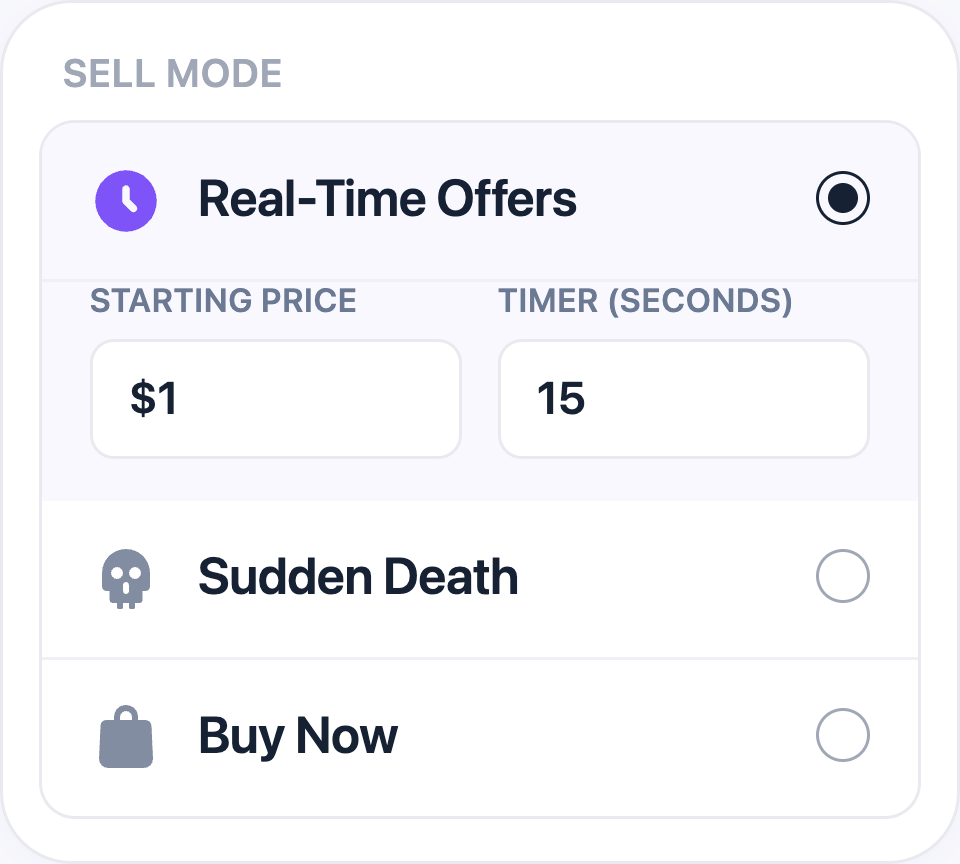
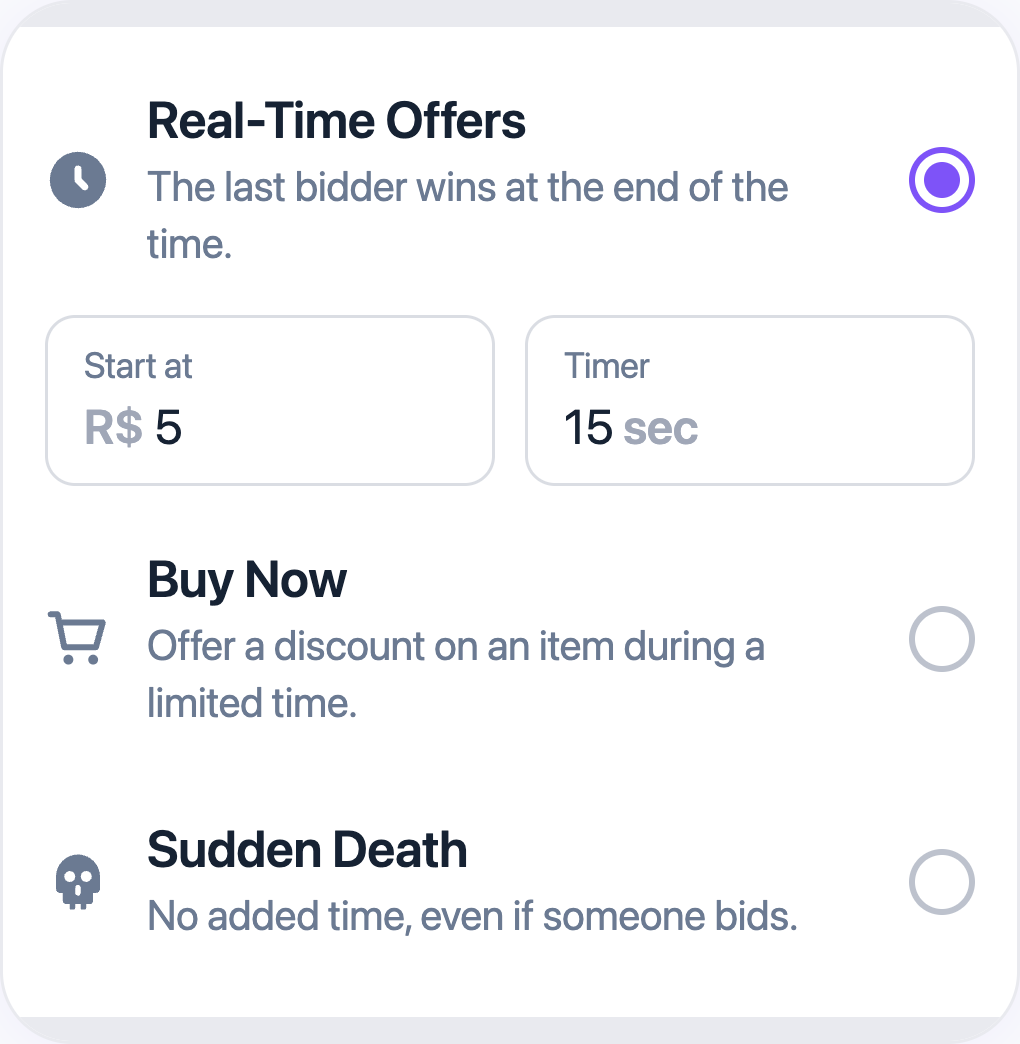
content: sell-mode picker matches the current listing form
Layout and copy from the real form (Ofertas em Tempo Real, Comprar Agora,
Morte Súbita with their app subtitles, 'Começar em' + 'Timer' fields, purple
radio). Starting price shown as R$5 (current minimum). Sorteio left out:
giveaway creation is disabled since Jul 1. EN uses the iOS English strings.

diff --git a/articles/how-real-time-offers-work/mockup-sources/sell-mode-picker__pt-br.html b/articles/how-real-time-offers-work/mockup-sources/sell-mode-picker__pt-br.html
@@ -1,49 +1,28 @@
 <!DOCTYPE html><html><head><meta name="viewport" content="width=device-width, initial-scale=1"><style>
 * { box-sizing: border-box; margin: 0; padding: 0; }
-body { font-family: -apple-system, "SF Pro Display", BlinkMacSystemFont, system-ui, sans-serif; background: #F9FAFC; display: flex; justify-content: center; padding: 12px; }
-.phone { width: 320px; background: #FFFFFF; border-radius: 24px; box-shadow: 0 2px 20px rgba(126,83,248,0.08); border: 1px solid #E9EAEF; overflow: hidden; }
-
-.picker-title { font-size: 13px; font-weight: 600; color: #A0A7B7; text-transform: uppercase; padding: 16px 20px 8px; letter-spacing: 0.5px; }
-.group { margin: 0 12px 14px; border: 1px solid #E9EAEF; border-radius: 12px; overflow: hidden; }
-.opt { display: flex; align-items: flex-start; padding: 14px 16px; border-bottom: 1px solid #F0F1F5; }
-.opt:last-child { border-bottom: none; }
-.opt.selected { background: #F9F8FF; }
-.opt-icon { width: 24px; height: 24px; margin-right: 12px; flex-shrink: 0; display: flex; align-items: center; justify-content: center; }
-.opt-icon svg { width: 100%; height: 100%; display: block; }
-.opt-icon.purple { color: #7E53F8; }
-.opt-icon.gray { color: #828DA2; }
-.opt-text { flex: 1; }
-.opt-name { font-size: 17px; font-weight: 600; color: #162233; line-height: 22px; }
-.opt-sub { font-size: 13px; color: #A0A7B7; line-height: 18px; margin-top: 2px; }
-.radio { width: 18px; height: 18px; border-radius: 50%; border: 1.5px solid #A0A7B7; flex-shrink: 0; margin-left: 12px; margin-top: 2px; }
-.radio.selected { border-color: #162233; position: relative; }
-.radio.selected::after { content: ""; position: absolute; top: 3px; left: 3px; width: 10px; height: 10px; border-radius: 50%; background: #162233; }
-
-.expanded { background: #F9F8FF; padding: 0 16px 14px; display: flex; gap: 12px; }
-.field { flex: 1; }
-.field-label { font-size: 11px; font-weight: 600; color: #6B7A92; text-transform: uppercase; letter-spacing: 0.4px; margin-bottom: 6px; }
-.field-input { background: #FFFFFF; border: 1px solid #E9EAEF; border-radius: 8px; padding: 10px 12px; font-size: 15px; font-weight: 600; color: #162233; }
+body { font-family: -apple-system, "SF Pro Display", BlinkMacSystemFont, system-ui, sans-serif; background: #F9FAFC; display: flex; justify-content: center; padding: 12px; color: #162233; }
+.phone { width: 340px; background: #FFFFFF; border-radius: 24px; box-shadow: 0 2px 20px rgba(126,83,248,0.08); border: 1px solid #E9EAEF; overflow: hidden; }
+.sep { height: 8px; background: #E9EAEF; }
+.list { padding: 6px 14px 10px; }
+.opt { display: flex; align-items: center; gap: 12px; padding: 14px 0; }
+.ic { width: 22px; height: 22px; color: #6B7A92; flex-shrink: 0; }
+.ic svg { width: 100%; height: 100%; display: block; }
+.tx { flex: 1; }
+.nm { font-size: 17px; font-weight: 600; line-height: 22px; }
+.sb { font-size: 14px; color: #6B7A92; line-height: 19px; margin-top: 2px; }
+.rd { width: 22px; height: 22px; border-radius: 50%; border: 2px solid #BDC2CD; flex-shrink: 0; }
+.rd.on { border-color: #7E53F8; position: relative; }
+.rd.on::after { content: ""; position: absolute; inset: 3px; border-radius: 50%; background: #7E53F8; }
+.fields { display: flex; gap: 10px; padding: 0 0 6px; }
+.f { flex: 1; border: 1px solid #DADDE3; border-radius: 10px; padding: 9px 12px; }
+.fl { font-size: 12px; color: #6B7A92; }
+.fv { font-size: 16px; margin-top: 4px; }
+.fv .u { color: #A0A7B7; font-weight: 600; }
 </style></head><body><div class="phone">
-<div class="picker-title">Modo de venda</div>
-<div class="group">
-  <div class="opt selected">
-    <div class="opt-icon purple"><svg width="18" height="18" viewBox="0 0 18 18" fill="none" xmlns="http://www.w3.org/2000/svg"><path fill-rule="evenodd" clip-rule="evenodd" d="M3.1875 9C3.1875 5.78984 5.78984 3.1875 9 3.1875C12.2102 3.1875 14.8125 5.78984 14.8125 9C14.8125 12.2102 12.2102 14.8125 9 14.8125C5.78984 14.8125 3.1875 12.2102 3.1875 9ZM9 5.0625C9.51777 5.0625 9.9375 5.48223 9.9375 6V8.61167L11.5379 10.2121C11.904 10.5782 11.904 11.1718 11.5379 11.5379C11.1718 11.904 10.5782 11.904 10.2121 11.5379L8.33709 9.66291C8.16127 9.4871 8.0625 9.24864 8.0625 9V6C8.0625 5.48223 8.48223 5.0625 9 5.0625Z" fill="currentColor"/><path fill-rule="evenodd" clip-rule="evenodd" d="M3.1875 9C3.1875 5.78984 5.78984 3.1875 9 3.1875C12.2102 3.1875 14.8125 5.78984 14.8125 9C14.8125 12.2102 12.2102 14.8125 9 14.8125C5.78984 14.8125 3.1875 12.2102 3.1875 9ZM9 1.3125C4.75431 1.3125 1.3125 4.75431 1.3125 9C1.3125 13.2457 4.75431 16.6875 9 16.6875C13.2457 16.6875 16.6875 13.2457 16.6875 9C16.6875 4.75431 13.2457 1.3125 9 1.3125Z" fill="currentColor"/></svg></div>
-    <div class="opt-text"><div class="opt-name">Ofertas em Tempo Real</div></div>
-    <div class="radio selected"></div>
-  </div>
-  <div class="expanded">
-    <div class="field"><div class="field-label">Preço inicial</div><div class="field-input">R$ 5</div></div>
-    <div class="field"><div class="field-label">Duração (segundos)</div><div class="field-input">15</div></div>
-  </div>
-  <div class="opt">
-    <div class="opt-icon gray"><svg viewBox="0 0 24 24" fill="none" xmlns="http://www.w3.org/2000/svg"><path fill-rule="evenodd" clip-rule="evenodd" d="M12 2C7.58 2 4 5.58 4 10V14.5C4 15.33 4.67 16 5.5 16H6.5V19C6.5 19.55 6.95 20 7.5 20H9V21.5C9 21.78 9.22 22 9.5 22H10.5C10.78 22 11 21.78 11 21.5V20H13V21.5C13 21.78 13.22 22 13.5 22H14.5C14.78 22 15 21.78 15 21.5V20H16.5C17.05 20 17.5 19.55 17.5 19V16H18.5C19.33 16 20 15.33 20 14.5V10C20 5.58 16.42 2 12 2ZM9 12C7.9 12 7 11.1 7 10C7 8.9 7.9 8 9 8C10.1 8 11 8.9 11 10C11 11.1 10.1 12 9 12ZM15 12C13.9 12 13 11.1 13 10C13 8.9 13.9 8 15 8C16.1 8 17 8.9 17 10C17 11.1 16.1 12 15 12ZM12 17C11.45 17 11 16.55 11 16V14C11 13.45 11.45 13 12 13C12.55 13 13 13.45 13 14V16C13 16.55 12.55 17 12 17Z" fill="currentColor"/></svg></div>
-    <div class="opt-text"><div class="opt-name">Morte Súbita</div></div>
-    <div class="radio"></div>
-  </div>
-  <div class="opt">
-    <div class="opt-icon gray"><svg viewBox="0 0 24 24" fill="none" xmlns="http://www.w3.org/2000/svg"><path fill-rule="evenodd" clip-rule="evenodd" d="M8 6V5C8 2.79 9.79 1 12 1C14.21 1 16 2.79 16 5V6H18.5C19.6 6 20.5 6.9 20.5 8L21 19C21 20.66 19.66 22 18 22H6C4.34 22 3 20.66 3 19L3.5 8C3.5 6.9 4.4 6 5.5 6H8ZM10 6H14V5C14 3.9 13.1 3 12 3C10.9 3 10 3.9 10 5V6Z" fill="currentColor"/></svg></div>
-    <div class="opt-text"><div class="opt-name">Comprar Agora</div></div>
-    <div class="radio"></div>
-  </div>
-</div>
+<div class="sep"></div><div class="list">
+<div class="opt"><div class="ic"><svg width="18" height="18" viewBox="0 0 18 18" fill="none" xmlns="http://www.w3.org/2000/svg"><path fill-rule="evenodd" clip-rule="evenodd" d="M3.1875 9C3.1875 5.78984 5.78984 3.1875 9 3.1875C12.2102 3.1875 14.8125 5.78984 14.8125 9C14.8125 12.2102 12.2102 14.8125 9 14.8125C5.78984 14.8125 3.1875 12.2102 3.1875 9ZM9 5.0625C9.51777 5.0625 9.9375 5.48223 9.9375 6V8.61167L11.5379 10.2121C11.904 10.5782 11.904 11.1718 11.5379 11.5379C11.1718 11.904 10.5782 11.904 10.2121 11.5379L8.33709 9.66291C8.16127 9.4871 8.0625 9.24864 8.0625 9V6C8.0625 5.48223 8.48223 5.0625 9 5.0625Z" fill="currentColor"/><path fill-rule="evenodd" clip-rule="evenodd" d="M3.1875 9C3.1875 5.78984 5.78984 3.1875 9 3.1875C12.2102 3.1875 14.8125 5.78984 14.8125 9C14.8125 12.2102 12.2102 14.8125 9 14.8125C5.78984 14.8125 3.1875 12.2102 3.1875 9ZM9 1.3125C4.75431 1.3125 1.3125 4.75431 1.3125 9C1.3125 13.2457 4.75431 16.6875 9 16.6875C13.2457 16.6875 16.6875 13.2457 16.6875 9C16.6875 4.75431 13.2457 1.3125 9 1.3125Z" fill="currentColor"/></svg></div><div class="tx"><div class="nm">Ofertas em Tempo Real</div><div class="sb">A última oferta vence ao final do tempo.</div></div><div class="rd on"></div></div>
+<div class="fields"><div class="f"><div class="fl">Começar em</div><div class="fv"><span class="u">R$</span> 5</div></div><div class="f"><div class="fl">Timer</div><div class="fv">15 <span class="u">seg</span></div></div></div>
+<div class="opt"><div class="ic"><svg viewBox="0 0 24 24" fill="none"><path d="M2 3H4.6L7 15H18.5L21 6H5.6" stroke="currentColor" stroke-width="2.2" stroke-linecap="round" stroke-linejoin="round"/><circle cx="8.5" cy="19.5" r="1.8" fill="currentColor"/><circle cx="17.5" cy="19.5" r="1.8" fill="currentColor"/></svg></div><div class="tx"><div class="nm">Comprar Agora</div><div class="sb">Ofereça um desconto em um item por um tempo limitado.</div></div><div class="rd"></div></div>
+<div class="opt"><div class="ic"><svg viewBox="0 0 24 24" fill="none" xmlns="http://www.w3.org/2000/svg"><path fill-rule="evenodd" clip-rule="evenodd" d="M12 2C7.58 2 4 5.58 4 10V14.5C4 15.33 4.67 16 5.5 16H6.5V19C6.5 19.55 6.95 20 7.5 20H9V21.5C9 21.78 9.22 22 9.5 22H10.5C10.78 22 11 21.78 11 21.5V20H13V21.5C13 21.78 13.22 22 13.5 22H14.5C14.78 22 15 21.78 15 21.5V20H16.5C17.05 20 17.5 19.55 17.5 19V16H18.5C19.33 16 20 15.33 20 14.5V10C20 5.58 16.42 2 12 2ZM9 12C7.9 12 7 11.1 7 10C7 8.9 7.9 8 9 8C10.1 8 11 8.9 11 10C11 11.1 10.1 12 9 12ZM15 12C13.9 12 13 11.1 13 10C13 8.9 13.9 8 15 8C16.1 8 17 8.9 17 10C17 11.1 16.1 12 15 12ZM12 17C11.45 17 11 16.55 11 16V14C11 13.45 11.45 13 12 13C12.55 13 13 13.45 13 14V16C13 16.55 12.55 17 12 17Z" fill="currentColor"/></svg></div><div class="tx"><div class="nm">Morte Súbita</div><div class="sb">Sem tempo adicional, mesmo se alguém fizer uma oferta.</div></div><div class="rd"></div></div>
+</div><div class="sep"></div>
 </div></body></html>

diff --git a/articles/how-real-time-offers-work/mockup-sources/sell-mode-picker__en.html b/articles/how-real-time-offers-work/mockup-sources/sell-mode-picker__en.html
@@ -1,49 +1,28 @@
 <!DOCTYPE html><html><head><meta name="viewport" content="width=device-width, initial-scale=1"><style>
 * { box-sizing: border-box; margin: 0; padding: 0; }
-body { font-family: -apple-system, "SF Pro Display", BlinkMacSystemFont, system-ui, sans-serif; background: #F9FAFC; display: flex; justify-content: center; padding: 12px; }
-.phone { width: 320px; background: #FFFFFF; border-radius: 24px; box-shadow: 0 2px 20px rgba(126,83,248,0.08); border: 1px solid #E9EAEF; overflow: hidden; }
-
-.picker-title { font-size: 13px; font-weight: 600; color: #A0A7B7; text-transform: uppercase; padding: 16px 20px 8px; letter-spacing: 0.5px; }
-.group { margin: 0 12px 14px; border: 1px solid #E9EAEF; border-radius: 12px; overflow: hidden; }
-.opt { display: flex; align-items: flex-start; padding: 14px 16px; border-bottom: 1px solid #F0F1F5; }
-.opt:last-child { border-bottom: none; }
-.opt.selected { background: #F9F8FF; }
-.opt-icon { width: 24px; height: 24px; margin-right: 12px; flex-shrink: 0; display: flex; align-items: center; justify-content: center; }
-.opt-icon svg { width: 100%; height: 100%; display: block; }
-.opt-icon.purple { color: #7E53F8; }
-.opt-icon.gray { color: #828DA2; }
-.opt-text { flex: 1; }
-.opt-name { font-size: 17px; font-weight: 600; color: #162233; line-height: 22px; }
-.opt-sub { font-size: 13px; color: #A0A7B7; line-height: 18px; margin-top: 2px; }
-.radio { width: 18px; height: 18px; border-radius: 50%; border: 1.5px solid #A0A7B7; flex-shrink: 0; margin-left: 12px; margin-top: 2px; }
-.radio.selected { border-color: #162233; position: relative; }
-.radio.selected::after { content: ""; position: absolute; top: 3px; left: 3px; width: 10px; height: 10px; border-radius: 50%; background: #162233; }
-
-.expanded { background: #F9F8FF; padding: 0 16px 14px; display: flex; gap: 12px; }
-.field { flex: 1; }
-.field-label { font-size: 11px; font-weight: 600; color: #6B7A92; text-transform: uppercase; letter-spacing: 0.4px; margin-bottom: 6px; }
-.field-input { background: #FFFFFF; border: 1px solid #E9EAEF; border-radius: 8px; padding: 10px 12px; font-size: 15px; font-weight: 600; color: #162233; }
+body { font-family: -apple-system, "SF Pro Display", BlinkMacSystemFont, system-ui, sans-serif; background: #F9FAFC; display: flex; justify-content: center; padding: 12px; color: #162233; }
+.phone { width: 340px; background: #FFFFFF; border-radius: 24px; box-shadow: 0 2px 20px rgba(126,83,248,0.08); border: 1px solid #E9EAEF; overflow: hidden; }
+.sep { height: 8px; background: #E9EAEF; }
+.list { padding: 6px 14px 10px; }
+.opt { display: flex; align-items: center; gap: 12px; padding: 14px 0; }
+.ic { width: 22px; height: 22px; color: #6B7A92; flex-shrink: 0; }
+.ic svg { width: 100%; height: 100%; display: block; }
+.tx { flex: 1; }
+.nm { font-size: 17px; font-weight: 600; line-height: 22px; }
+.sb { font-size: 14px; color: #6B7A92; line-height: 19px; margin-top: 2px; }
+.rd { width: 22px; height: 22px; border-radius: 50%; border: 2px solid #BDC2CD; flex-shrink: 0; }
+.rd.on { border-color: #7E53F8; position: relative; }
+.rd.on::after { content: ""; position: absolute; inset: 3px; border-radius: 50%; background: #7E53F8; }
+.fields { display: flex; gap: 10px; padding: 0 0 6px; }
+.f { flex: 1; border: 1px solid #DADDE3; border-radius: 10px; padding: 9px 12px; }
+.fl { font-size: 12px; color: #6B7A92; }
+.fv { font-size: 16px; margin-top: 4px; }
+.fv .u { color: #A0A7B7; font-weight: 600; }
 </style></head><body><div class="phone">
-<div class="picker-title">Sell mode</div>
-<div class="group">
-  <div class="opt selected">
-    <div class="opt-icon purple"><svg width="18" height="18" viewBox="0 0 18 18" fill="none" xmlns="http://www.w3.org/2000/svg"><path fill-rule="evenodd" clip-rule="evenodd" d="M3.1875 9C3.1875 5.78984 5.78984 3.1875 9 3.1875C12.2102 3.1875 14.8125 5.78984 14.8125 9C14.8125 12.2102 12.2102 14.8125 9 14.8125C5.78984 14.8125 3.1875 12.2102 3.1875 9ZM9 5.0625C9.51777 5.0625 9.9375 5.48223 9.9375 6V8.61167L11.5379 10.2121C11.904 10.5782 11.904 11.1718 11.5379 11.5379C11.1718 11.904 10.5782 11.904 10.2121 11.5379L8.33709 9.66291C8.16127 9.4871 8.0625 9.24864 8.0625 9V6C8.0625 5.48223 8.48223 5.0625 9 5.0625Z" fill="currentColor"/><path fill-rule="evenodd" clip-rule="evenodd" d="M3.1875 9C3.1875 5.78984 5.78984 3.1875 9 3.1875C12.2102 3.1875 14.8125 5.78984 14.8125 9C14.8125 12.2102 12.2102 14.8125 9 14.8125C5.78984 14.8125 3.1875 12.2102 3.1875 9ZM9 1.3125C4.75431 1.3125 1.3125 4.75431 1.3125 9C1.3125 13.2457 4.75431 16.6875 9 16.6875C13.2457 16.6875 16.6875 13.2457 16.6875 9C16.6875 4.75431 13.2457 1.3125 9 1.3125Z" fill="currentColor"/></svg></div>
-    <div class="opt-text"><div class="opt-name">Real-Time Offers</div></div>
-    <div class="radio selected"></div>
-  </div>
-  <div class="expanded">
-    <div class="field"><div class="field-label">Starting price</div><div class="field-input">$1</div></div>
-    <div class="field"><div class="field-label">Timer (Seconds)</div><div class="field-input">15</div></div>
-  </div>
-  <div class="opt">
-    <div class="opt-icon gray"><svg viewBox="0 0 24 24" fill="none" xmlns="http://www.w3.org/2000/svg"><path fill-rule="evenodd" clip-rule="evenodd" d="M12 2C7.58 2 4 5.58 4 10V14.5C4 15.33 4.67 16 5.5 16H6.5V19C6.5 19.55 6.95 20 7.5 20H9V21.5C9 21.78 9.22 22 9.5 22H10.5C10.78 22 11 21.78 11 21.5V20H13V21.5C13 21.78 13.22 22 13.5 22H14.5C14.78 22 15 21.78 15 21.5V20H16.5C17.05 20 17.5 19.55 17.5 19V16H18.5C19.33 16 20 15.33 20 14.5V10C20 5.58 16.42 2 12 2ZM9 12C7.9 12 7 11.1 7 10C7 8.9 7.9 8 9 8C10.1 8 11 8.9 11 10C11 11.1 10.1 12 9 12ZM15 12C13.9 12 13 11.1 13 10C13 8.9 13.9 8 15 8C16.1 8 17 8.9 17 10C17 11.1 16.1 12 15 12ZM12 17C11.45 17 11 16.55 11 16V14C11 13.45 11.45 13 12 13C12.55 13 13 13.45 13 14V16C13 16.55 12.55 17 12 17Z" fill="currentColor"/></svg></div>
-    <div class="opt-text"><div class="opt-name">Sudden Death</div></div>
-    <div class="radio"></div>
-  </div>
-  <div class="opt">
-    <div class="opt-icon gray"><svg viewBox="0 0 24 24" fill="none" xmlns="http://www.w3.org/2000/svg"><path fill-rule="evenodd" clip-rule="evenodd" d="M8 6V5C8 2.79 9.79 1 12 1C14.21 1 16 2.79 16 5V6H18.5C19.6 6 20.5 6.9 20.5 8L21 19C21 20.66 19.66 22 18 22H6C4.34 22 3 20.66 3 19L3.5 8C3.5 6.9 4.4 6 5.5 6H8ZM10 6H14V5C14 3.9 13.1 3 12 3C10.9 3 10 3.9 10 5V6Z" fill="currentColor"/></svg></div>
-    <div class="opt-text"><div class="opt-name">Buy Now</div></div>
-    <div class="radio"></div>
-  </div>
-</div>
+<div class="sep"></div><div class="list">
+<div class="opt"><div class="ic"><svg width="18" height="18" viewBox="0 0 18 18" fill="none" xmlns="http://www.w3.org/2000/svg"><path fill-rule="evenodd" clip-rule="evenodd" d="M3.1875 9C3.1875 5.78984 5.78984 3.1875 9 3.1875C12.2102 3.1875 14.8125 5.78984 14.8125 9C14.8125 12.2102 12.2102 14.8125 9 14.8125C5.78984 14.8125 3.1875 12.2102 3.1875 9ZM9 5.0625C9.51777 5.0625 9.9375 5.48223 9.9375 6V8.61167L11.5379 10.2121C11.904 10.5782 11.904 11.1718 11.5379 11.5379C11.1718 11.904 10.5782 11.904 10.2121 11.5379L8.33709 9.66291C8.16127 9.4871 8.0625 9.24864 8.0625 9V6C8.0625 5.48223 8.48223 5.0625 9 5.0625Z" fill="currentColor"/><path fill-rule="evenodd" clip-rule="evenodd" d="M3.1875 9C3.1875 5.78984 5.78984 3.1875 9 3.1875C12.2102 3.1875 14.8125 5.78984 14.8125 9C14.8125 12.2102 12.2102 14.8125 9 14.8125C5.78984 14.8125 3.1875 12.2102 3.1875 9ZM9 1.3125C4.75431 1.3125 1.3125 4.75431 1.3125 9C1.3125 13.2457 4.75431 16.6875 9 16.6875C13.2457 16.6875 16.6875 13.2457 16.6875 9C16.6875 4.75431 13.2457 1.3125 9 1.3125Z" fill="currentColor"/></svg></div><div class="tx"><div class="nm">Real-Time Offers</div><div class="sb">The last bidder wins at the end of the time.</div></div><div class="rd on"></div></div>
+<div class="fields"><div class="f"><div class="fl">Start at</div><div class="fv"><span class="u">R$</span> 5</div></div><div class="f"><div class="fl">Timer</div><div class="fv">15 <span class="u">sec</span></div></div></div>
+<div class="opt"><div class="ic"><svg viewBox="0 0 24 24" fill="none"><path d="M2 3H4.6L7 15H18.5L21 6H5.6" stroke="currentColor" stroke-width="2.2" stroke-linecap="round" stroke-linejoin="round"/><circle cx="8.5" cy="19.5" r="1.8" fill="currentColor"/><circle cx="17.5" cy="19.5" r="1.8" fill="currentColor"/></svg></div><div class="tx"><div class="nm">Buy Now</div><div class="sb">Offer a discount on an item during a limited time.</div></div><div class="rd"></div></div>
+<div class="opt"><div class="ic"><svg viewBox="0 0 24 24" fill="none" xmlns="http://www.w3.org/2000/svg"><path fill-rule="evenodd" clip-rule="evenodd" d="M12 2C7.58 2 4 5.58 4 10V14.5C4 15.33 4.67 16 5.5 16H6.5V19C6.5 19.55 6.95 20 7.5 20H9V21.5C9 21.78 9.22 22 9.5 22H10.5C10.78 22 11 21.78 11 21.5V20H13V21.5C13 21.78 13.22 22 13.5 22H14.5C14.78 22 15 21.78 15 21.5V20H16.5C17.05 20 17.5 19.55 17.5 19V16H18.5C19.33 16 20 15.33 20 14.5V10C20 5.58 16.42 2 12 2ZM9 12C7.9 12 7 11.1 7 10C7 8.9 7.9 8 9 8C10.1 8 11 8.9 11 10C11 11.1 10.1 12 9 12ZM15 12C13.9 12 13 11.1 13 10C13 8.9 13.9 8 15 8C16.1 8 17 8.9 17 10C17 11.1 16.1 12 15 12ZM12 17C11.45 17 11 16.55 11 16V14C11 13.45 11.45 13 12 13C12.55 13 13 13.45 13 14V16C13 16.55 12.55 17 12 17Z" fill="currentColor"/></svg></div><div class="tx"><div class="nm">Sudden Death</div><div class="sb">No added time, even if someone bids.</div></div><div class="rd"></div></div>
+</div><div class="sep"></div>
 </div></body></html>
